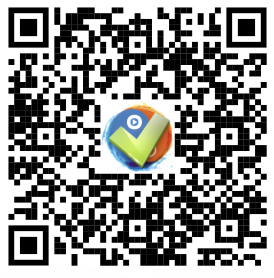
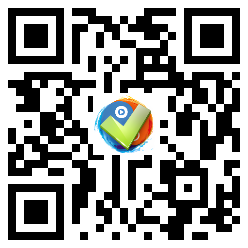
Update iOS and social info

diff --git a/src/popup.html b/src/popup.html
@@ -18,19 +18,12 @@
         <div id="qr_codes_container" style="text-align: left;">
             <!-- Rift VPN QR code for general use -->
             <div><strong></strong><span class="label label-success">NEW</span></div>
-
             <!-- Container for QR codes displayed side by side -->
             <div style="display: flex; justify-content: space-around; align-items: flex-start; margin-top: 20px;">
                 <!-- Rift VPN QR code for general use -->
                 <div id="rift_qr" class="text-center">
                     <p id="rift_scan_message"></p>
-                    <img src="img/rift-vpn-qr.png" alt="Rift VPN QR code" style="width: auto; height: 140px;">
-                </div>
-                
-                <!-- iOS-specific Rift VPN QR code -->
-                <div id="rift_ios_qr" class="text-center">
-                    <p id="rift_scan_ios_message"></p>
-                    <img src="img/rift-vpn-qr-ios.jpg" alt="Rift VPN iOS QR code" style="width: auto; height: 140px;">
+                    <img src="img/rift-vpn-qr.png" alt="Rift VPN QR code" style="width: auto; height: 180px;">
                 </div>
             </div>
         </div>
@@ -38,7 +31,7 @@
 
         <div id="intro" class="text-center"style="margin-top:20px;margin-bottom:20px;">
             <p id="rift_intro_message"></p>
-            <a href="https://riftvpn.ai" target="_blank"><button type="button"
+            <a href="https://go.riftvpn.ai/chrome-learn-more" target="_blank"><button type="button"
                 class="btn btn-danger" id="learn_rift_button"></button></a>
         </div>
         <div id="support">
@@ -53,26 +46,26 @@
             <div><strong></strong></div>
             <div id="social-networks">
                 <div class="row">
-                    <div class="col-xs-5 text-right">Weibo</div>
+                    <div class="col-xs-5 text-right">Discord</div>
                     <div class="col-xs-7 text-left">
-                        <a href="http://weibo.com/ubuku" target="_blank">
-                            <i class="fa fa-weibo"></i> @Unblock_Youku
+                        <a href="https://go.riftvpn.ai/discord" target="_blank">
+                            RIFT云界 - VPN
                         </a>
                     </div>
                 </div>
                 <div class="row">
                     <div class="col-xs-5 text-right">Twitter</div>
                     <div class="col-xs-7 text-left">
-                        <a id="test" href="https://twitter.com/Unblock_Youku" target="_blank">
-                            <i class="fa fa-twitter"></i> @Unblock_Youku
+                        <a id="test" href="https://twitter.com/riftvpn" target="_blank">
+                            <i class="fa fa-twitter"></i> @riftvpn
                         </a>
                     </div>
                 </div>
                 <div class="row">
                     <div class="col-xs-5 text-right">Facebook</div>
                     <div class="col-xs-7 text-left">
-                        <a href="https://fb.com/uku.im" target="_blank">
-                            <i class="fa fa-facebook-square"></i> https://fb.com/uku.im
+                        <a href="https://go.riftvpn.ai/fb-page" target="_blank">
+                            <i class="fa fa-facebook-square"></i> https://go.riftvpn.ai/fb-page
                         </a>
                     </div>
                 </div>
